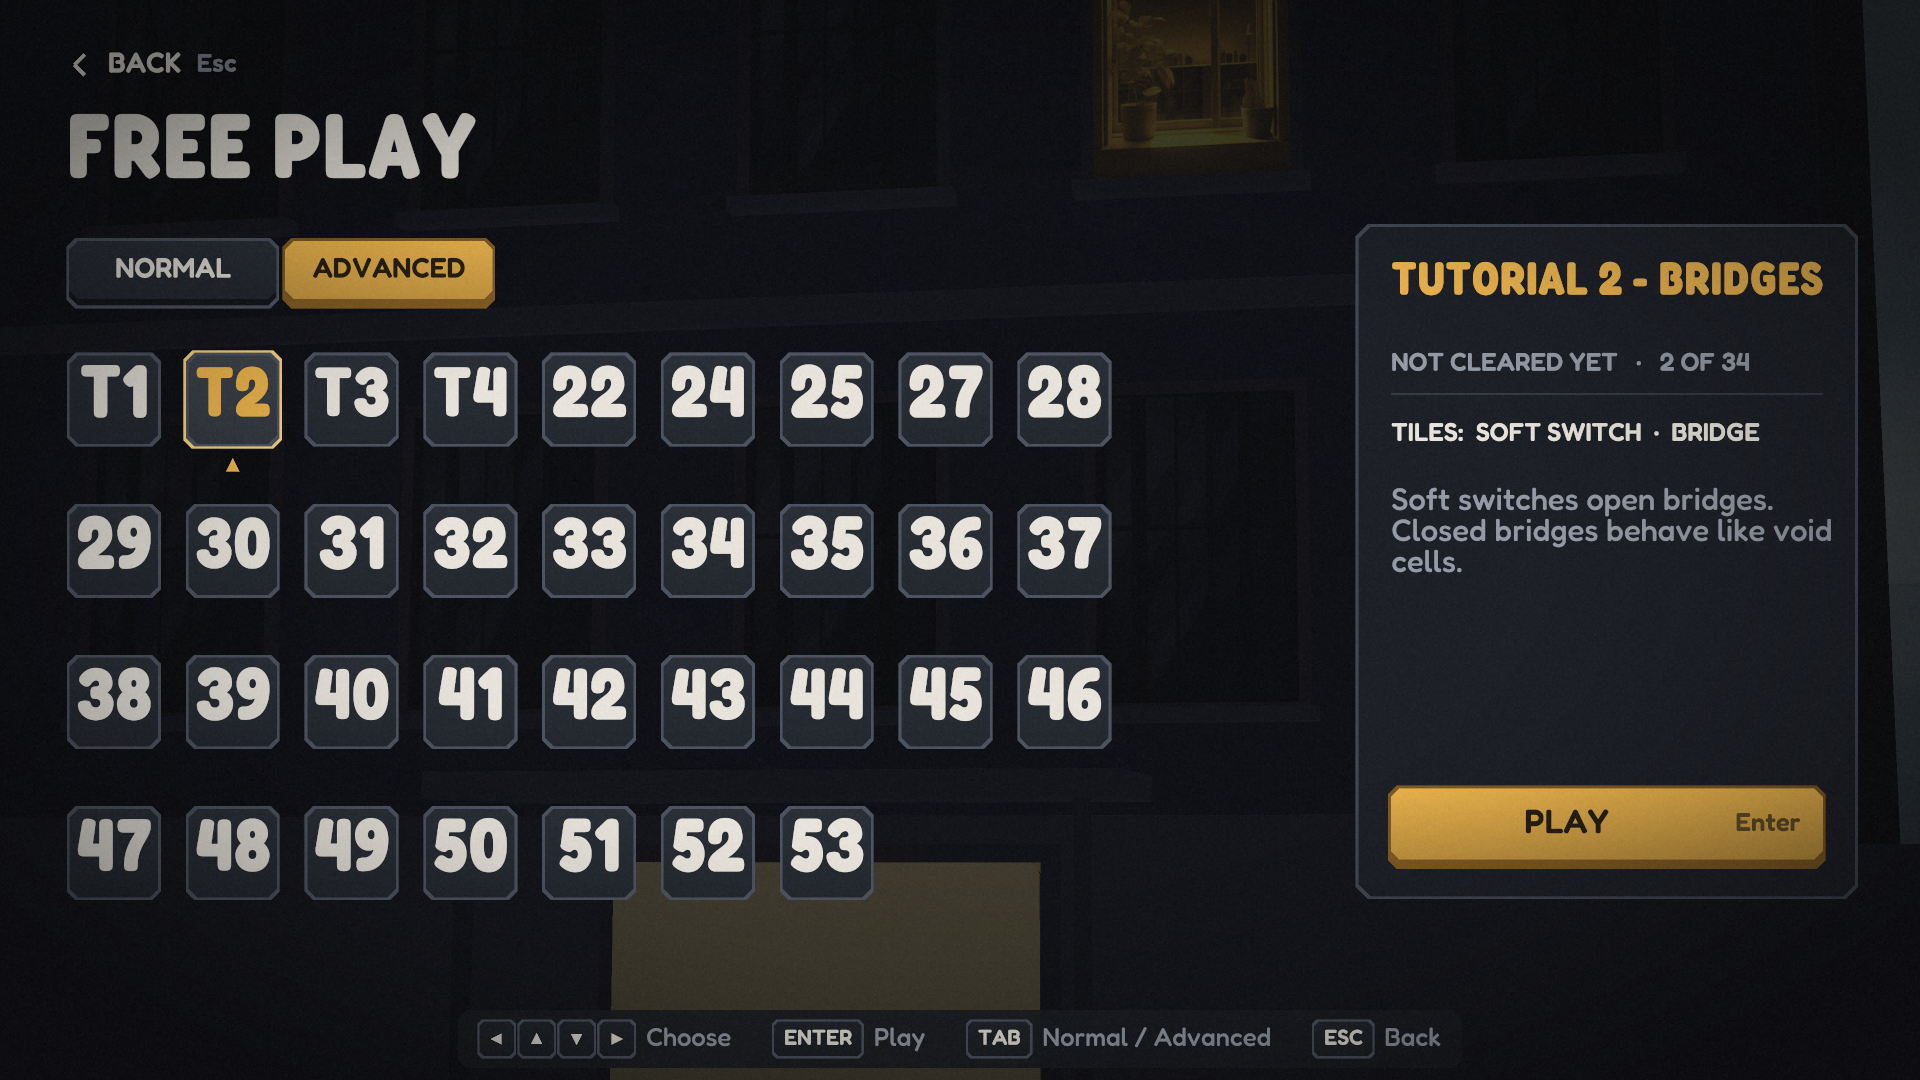
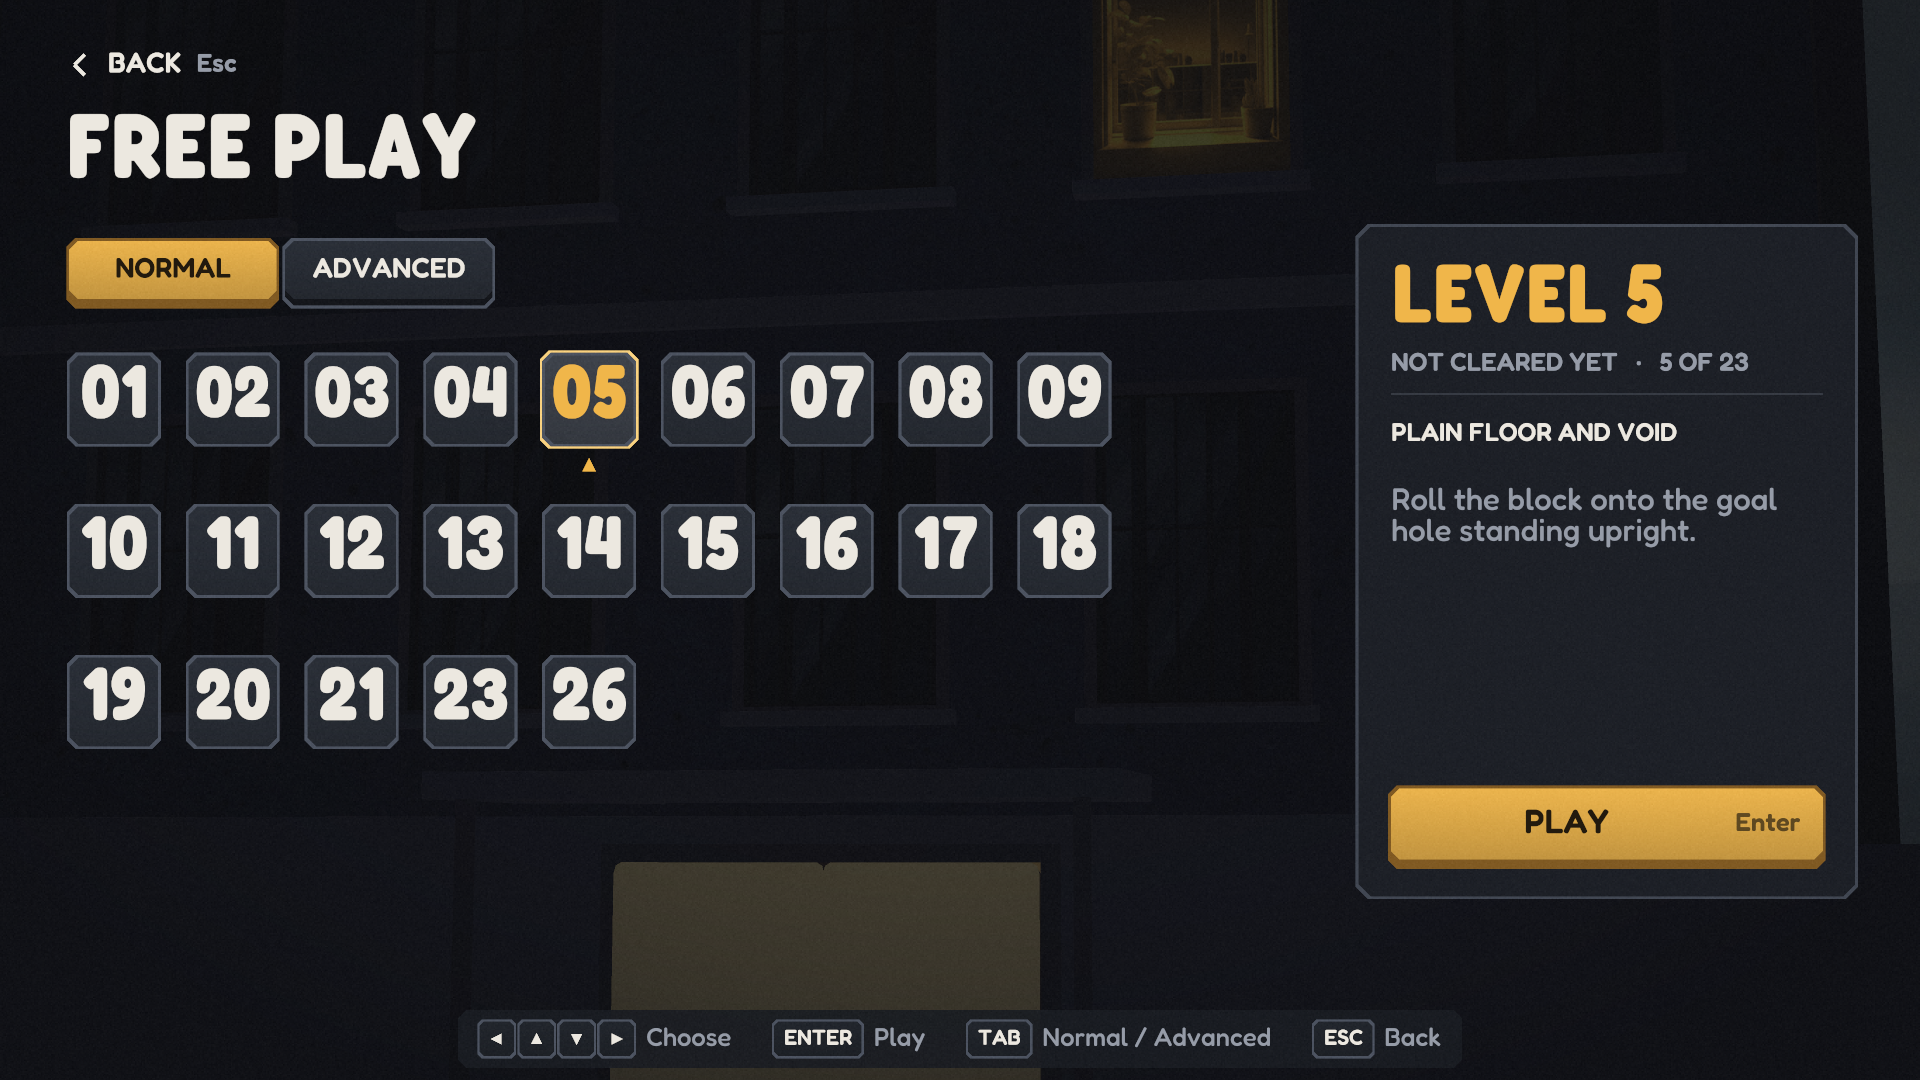
3D: whole buttons clickable in steppers and tabs, instant Normal/Advanced switch (fonts keep their glyphs, both grids built once), level select over the title shot after a game

diff --git a/Source/ui3d/screens/level_select.py b/Source/ui3d/screens/level_select.py
@@ -6,7 +6,7 @@ tutorial tips, ←/→ through the levels, Enter to start, Esc back.
 """
 import json
 
-from ursina import Entity, camera, color, destroy, window
+from ursina import Entity, camera, color, destroy, invoke, window
 
 from engine.catalog import LEVEL_DIR, TUTORIAL_LEVELS, TUTORIAL_TIPS, level_label, levels_for_mode
 from .. import settings, theme
@@ -41,11 +41,11 @@ class LevelSelect(Entity):
     """on_start(level, mode) when a level is chosen; on_back() for Esc / Back."""
 
     def __init__(self, on_start, on_back, mode='normal', level=None, title='Free Play', action='Play'):
-        super().__init__(parent=camera.ui, z=-.1)            # in front of the title shot's lettering
+        super().__init__(parent=camera.ui, z=-.6)            # in front of the title shot's lettering and vignette
         self.on_start, self.on_back = on_start, on_back
         a = window.aspect_ratio / 2
         Entity(parent=self, model='quad', scale=(a * 2 + .1, 1.1), color=color.rgba(8, 9, 13, 200), z=.06)
-        self.back = w.back_button(on_back, parent=self, x=-a + .14, y=.44)
+        self.back_button = w.back_button(on_back, parent=self, x=-a + .14, y=.44)
         w.label(self, title.upper(), theme.HEADING, theme.TEXT, theme.FONT_TITLE, origin=(-.5, .5),
                 x=-a + .06, y=.40)
         self.tabs = w.Tabs([('Normal', 'normal'), ('Advanced', 'advanced')], mode, self._mode, parent=self,
@@ -67,40 +67,59 @@ class LevelSelect(Entity):
         self.start = w.UIButton(action, self._start, parent=p, y=-ph / 2 + theme.PAD + theme.BUTTON_H / 2 + .004,
                                 w=pw - 2 * theme.PAD, kind='primary', key='Enter', marker=None)
 
+        self.grids = {}             # mode -> (grid entity, tiles, focus group); both are kept, Tab only swaps
         self.grid = None
         self.mode = mode
         self.level = level
-        self._build_grid()
+        self._show_grid()
+        other = 'advanced' if mode == 'normal' else 'normal'
+        invoke(self._prebuild, other, delay=.3)          # the other set, while the player reads this one
         w.KeyHint([('arrows', 'Choose'), ('Enter', action), ('Tab', 'Normal / Advanced'), ('Esc', 'Back')],
                   parent=self)
 
     # ---- grid ----
-    def _build_grid(self):
-        if self.grid is not None:
-            destroy(self.grid)
+    def _build_grid(self, mode):
         a = window.aspect_ratio / 2
-        self.grid = Entity(parent=self)
+        grid = Entity(parent=self, enabled=False)
+        levels = levels_for_mode(mode)
+        group = w.FocusGroup(grid_columns=COLUMNS, wrap=False)
+        size, gap = .082, .028
+        x0, y0 = -a + .06 + size / 2 + theme.FOCUS_W, .13
+        tiles = {}
+        for i, n in enumerate(levels):
+            r, c = divmod(i, COLUMNS)
+            tiles[n] = w.LevelTile(n, self._pick, 'done' if settings.is_completed(n) else 'open', False,
+                                   parent=grid, x=x0 + c * (size + gap), y=y0 - r * (size + gap + .03), size=size,
+                                   caption=False, group=group, text=tile_text(n), on_focus=self._select)
+        self.grids[mode] = (grid, tiles, group)
+
+    def _prebuild(self, mode):
+        if self and mode not in self.grids:
+            self._build_grid(mode)
+
+    def _show_grid(self):
+        if self.mode not in self.grids:
+            self._build_grid(self.mode)
+        if self.grid is not None:
+            self.grid.enabled = False
+            old = self.tiles.get(self.level_shown)
+            if old:
+                old.set(selected=False)
+        self.grid, self.tiles, self.group = self.grids[self.mode]
+        self.grid.enabled = True
         self.levels = levels_for_mode(self.mode)
         if self.level not in self.levels:
             self.level = self.levels[0] if self.levels else None
-        self.group = w.FocusGroup(grid_columns=COLUMNS, wrap=False)
-        size, gap = .082, .028
-        x0, y0 = -a + .06 + size / 2 + theme.FOCUS_W, .13
-        self.tiles = {}
-        for i, n in enumerate(self.levels):
-            r, c = divmod(i, COLUMNS)
-            t = w.LevelTile(n, self._pick, 'done' if settings.is_completed(n) else 'open', n == self.level,
-                            parent=self.grid, x=x0 + c * (size + gap), y=y0 - r * (size + gap + .03), size=size,
-                            caption=False, group=self.group, text=tile_text(n), on_focus=self._select)
-            self.tiles[n] = t
+        self.level_shown = self.level
         if self.level in self.tiles:
+            self.tiles[self.level].set(selected=True)
             self.group.focus(self.tiles[self.level])
         self._describe()
 
     def _mode(self, mode):
         self.mode = mode
         self.level = None
-        self._build_grid()
+        self._show_grid()
 
     def _select(self, level_number):
         if level_number == self.level:
@@ -108,7 +127,7 @@ class LevelSelect(Entity):
         old = self.tiles.get(self.level)
         if old:
             old.set(selected=False)
-        self.level = level_number
+        self.level = self.level_shown = level_number
         self.tiles[level_number].set(selected=True)
         self._describe()
 

diff --git a/Source/ui3d/widgets.py b/Source/ui3d/widgets.py
@@ -6,7 +6,7 @@ drive them from the keyboard: set_focus(on), press(), .disabled, .enabled, .grou
 
 Labels shrink to fit the space they are given, so nothing is cut off at 1280x720 or 1920x1080.
 """
-from panda3d.core import ClockObject
+from panda3d.core import ClockObject, OmniBoundingVolume
 from ursina import Entity, Mesh, Text, Vec3, camera, color, destroy, invoke, mouse
 
 from . import icons, theme
@@ -34,12 +34,50 @@ def label(parent, text, size=theme.BODY, col=theme.TEXT, font=theme.FONT_BODY, o
     wrap = kw.pop('wordwrap', None)
     t = Text('', parent=parent, scale=size, color=col, origin=origin, font=font, **kw)
     t.use_tags = False
-    t.resolution = theme.RESOLUTION.get(font, 96)
-    t.text = text
+    t.text = text                       # (each font's size is fixed once, see keep_glyphs)
     if wrap:
         t.wordwrap = wrap               # Ursina only wraps text that is already there
     fit(t, max_width)
     return t
+
+
+def keep_glyphs():
+    """Stop Ursina throwing away the glyphs it has drawn.
+
+    Ursina 5.2's Text calls font.clear() and resets the font's pixel size every time a Text is made, and
+    all Texts share the font object, so each new label rasterised its letters again (about 10 ms a glyph
+    at our sizes): switching a tab or describing a level stuttered. Here each font is set up once, at its
+    size from theme.RESOLUTION, and keeps its glyphs; Text.resolution no longer changes it.
+    """
+    from ursina import text as ursina_text
+    ready = {}
+
+    def set_font(self, value):
+        font = loader.loadFont(value)           # noqa: F821  (Panda3D builtin)
+        if not font:
+            return
+        self._font = font
+        if value not in ready:
+            font.clear()
+            font.setPixelsPerUnit(theme.RESOLUTION.get(value, ursina_text.Text.default_resolution))
+            ready[value] = True
+        font.setLineHeight(self.line_height)
+        self.text = self.raw_text
+
+    def set_resolution(self, value):
+        pass                                    # one size per font, fixed in set_font
+
+    Text.font = Text.font.setter(set_font)
+    Text.resolution = Text.resolution.setter(set_resolution)
+
+
+def warm_glyphs():
+    """Draw every character once in each UI font. Panda3D renders a glyph the first time it is used, at
+    about 10 ms each at our resolutions, so new text (a level's description) would stutter otherwise."""
+    import string
+    chars = string.ascii_letters + string.digits + string.punctuation + ' ·—‹›×'
+    for font in theme.RESOLUTION:
+        destroy(label(camera.ui, chars, font=font, enabled=False))
 
 
 def fit(text_entity, max_width):
@@ -167,6 +205,21 @@ class _Focusable(Entity):
         target.on_click = self.press
         target.on_mouse_enter = self._enter
         target.on_mouse_exit = self._exit
+        always_hit(target)
+
+
+def always_hit(entity):
+    """Never let Panda3D skip this entity's branch when it looks for what the mouse is over.
+
+    The mouse ray skips a whole branch when it misses the branch's bounding volume, and for composite
+    widgets that volume left out the outer parts of their buttons (the ‹ › of a Stepper, the end tabs):
+    only the half nearest the middle could be clicked. The UI is small, so nothing in it is culled.
+    """
+    node = entity
+    while node is not None and node != camera.ui:
+        node.node().setBounds(OmniBoundingVolume())
+        node.node().setFinal(True)
+        node = node.parent
 
     def refresh(self):
         pass

diff --git a/Source/ui3d/app.py b/Source/ui3d/app.py
@@ -33,6 +33,7 @@ class App3D(Entity):
         self.state = 'loading'
         self.first_title = True       # the opening film plays in full only the first time
         self.free_mode, self.free_level = 'normal', None
+        self.after_title = None       # 'levels': open level select once the title shot is up
         settings.load()
         apply_all()
         audio.start()
@@ -87,6 +88,7 @@ class App3D(Entity):
 
     # ---- main menu: the opening's title shot ----
     def main_menu(self):
+        self.after_title = None
         if self._title_up:
             self._show_main_menu()
             return
@@ -97,6 +99,8 @@ class App3D(Entity):
                          on_settings=self.open_settings, on_finish=self._tower_done)
 
     def _build_title(self):
+        if self.first_title:
+            w.warm_glyphs()                      # under the first loading screen, not on the first menu
         scene = self._new_tower_game()
         scene.menu_hold = True
         scene.intro.show_button = False
@@ -110,7 +114,11 @@ class App3D(Entity):
 
     def update(self):
         if self.state == 'intro' and self._title_up and self.scene.intro.at_title:
-            self._show_main_menu()
+            if self.after_title == 'levels':
+                self.after_title = None
+                self._show_levels()
+            else:
+                self._show_main_menu()
 
     def _title_letters(self, on):
         if self._title_up:
@@ -159,11 +167,17 @@ class App3D(Entity):
 
     # ---- free play ----
     def open_levels(self, mode=None, level=None):
+        """Level select stands over the title shot; coming from a game, that shot is built again first."""
         if mode is not None:
             self.free_mode, self.free_level = mode, level
-        self._clear_menu()
         if not self._title_up:
-            self._clear_scene()
+            self.after_title = 'levels'
+            self._load('Loading', self._build_title, self._await_title, 'title')
+            return
+        self._show_levels()
+
+    def _show_levels(self):
+        self._clear_menu()
         self.state = 'levels'
         self._title_letters(False)
         self.menu_root = LevelSelect(self.start_free_play, self._levels_back, self.free_mode, self.free_level)

diff --git a/Source/ui3d/__init__.py b/Source/ui3d/__init__.py
@@ -20,6 +20,8 @@ def run(fullscreen=False, size=None):
     Entity.default_shader = None                 # use Panda3D's own lighting (see world.lights)
     from .theme import FONT_BODY
     Text.default_font = FONT_BODY                # Medium: the variable Fredoka loads as Light
+    from .widgets import keep_glyphs
+    keep_glyphs()                                # Ursina clears every font's glyphs on each new Text
     from panda3d.core import NodePath  # noqa: F401  (render is a builtin set up by Ursina)
     import builtins
     sun = lights(builtins.render)

diff --git a/docs/UI3D_SPEC.md b/docs/UI3D_SPEC.md
@@ -241,6 +241,9 @@ Giữ đủ tất cả:
 - Hộp thoại chồng lên nhau (Clear progress trên Settings) bị đè chữ: mỗi hộp thoại mới nằm ở một lớp sâu riêng, che hẳn hộp thoại dưới.
 - Nút "Clear Free Play progress" bị làm mờ khi chưa có màn nào hoàn thành.
 - Camera của Lab tự canh cho cả bàn chơi nằm trọn bên phải bảng điều khiển.
+- Nút ‹ › của Lab và các tab ở hai đầu chỉ bấm được một phần: tia chuột của Panda3D bỏ qua cả nhánh widget khi trượt khỏi khối bao của nhánh. Giờ các nhánh UI không bị loại bỏ nữa (`widgets.always_hit`).
+- Tab Normal/Advanced bị khựng: Ursina xóa hết glyph đã vẽ của font mỗi khi tạo Text mới. Giờ mỗi font giữ một cỡ cố định và giữ glyph (`widgets.keep_glyphs`). Hai lưới màn được dựng sẵn, Tab chỉ đổi qua lại.
+- Mở Level Select từ màn kết quả thì dựng lại cảnh tiêu đề phía sau, giống khi mở từ menu chính.
 
 ### Còn ngoài phạm vi UI (của người làm solver)
 - `iterative_deepening_search` chưa được viết. UI hiện "not implemented", nút IDS bị làm mờ.
